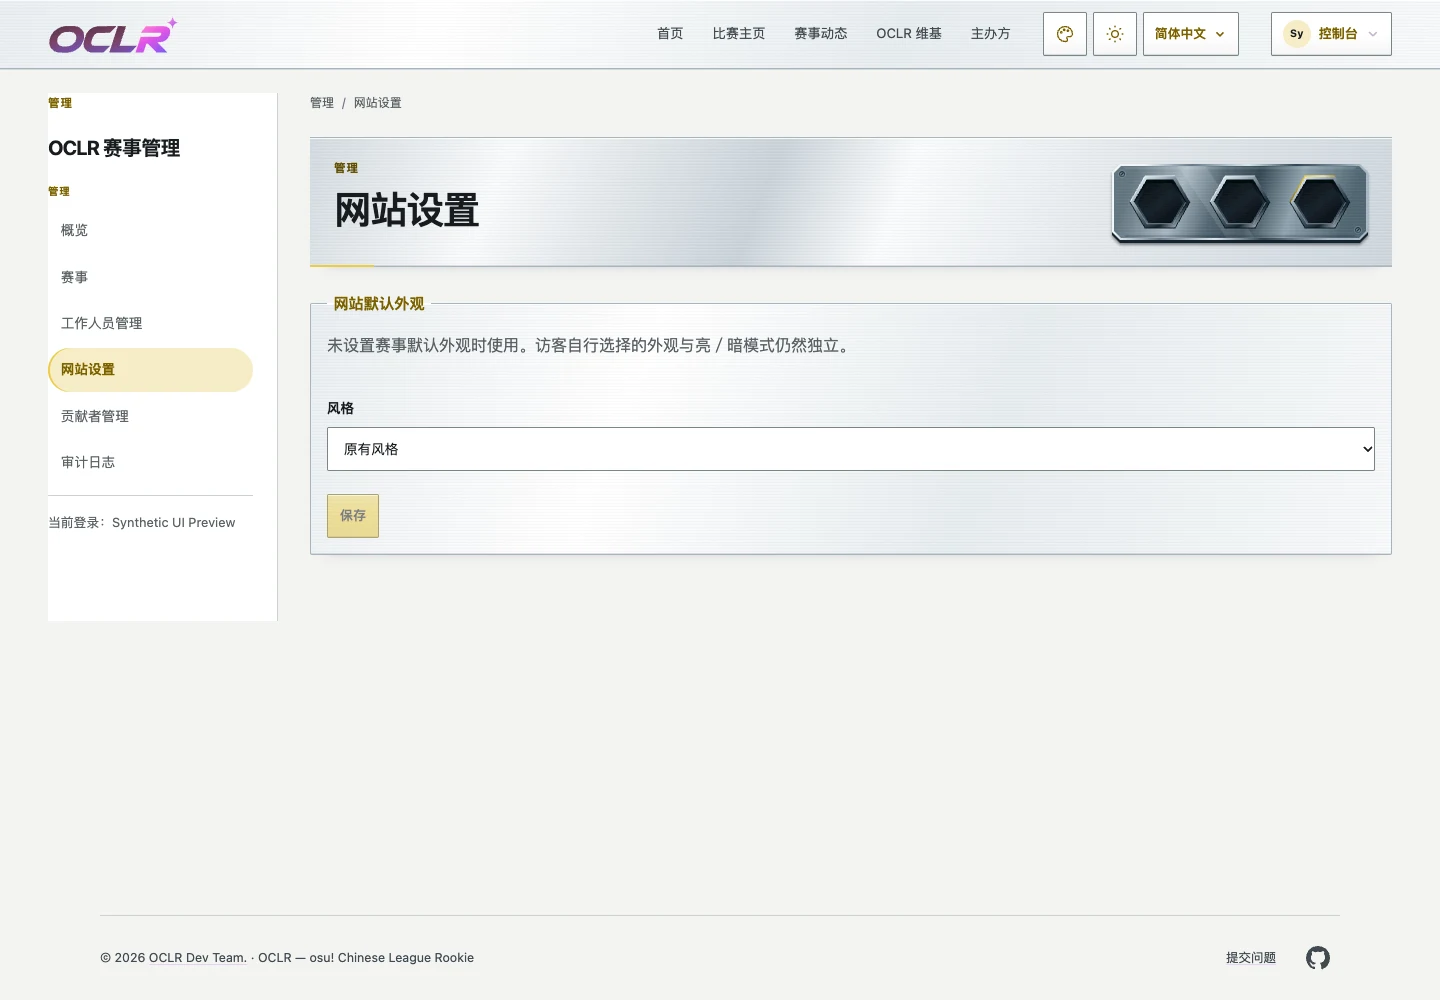
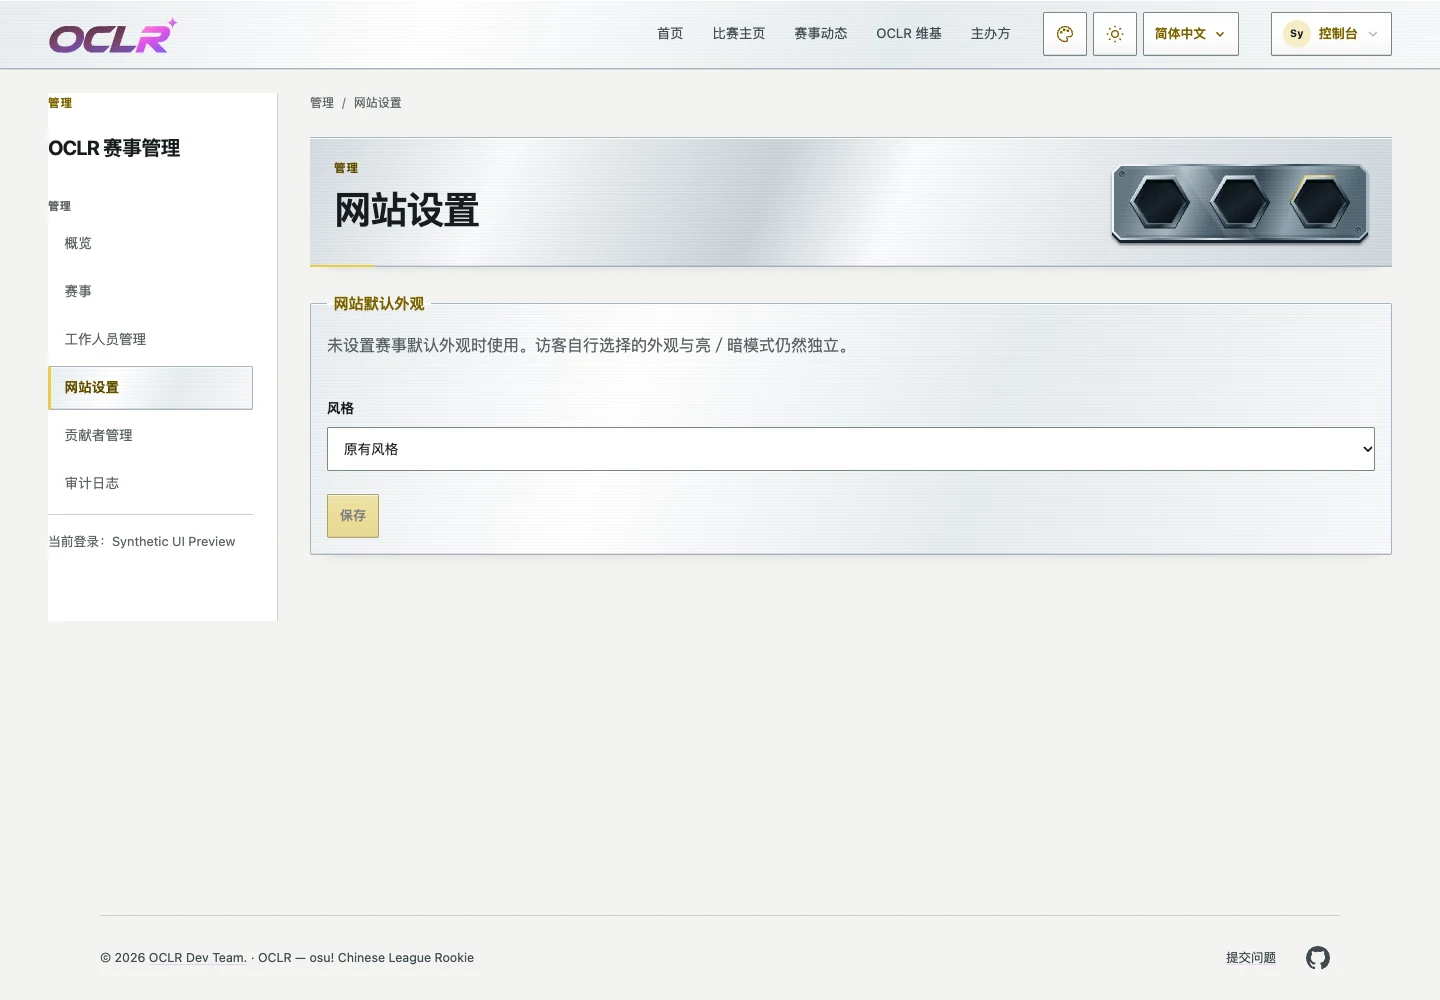
test(theme): verify S7 sidebar navigation and record visual evidence

Changed region(s): [[0.0312, 0.186, 0.1875, 0.558]]

diff --git a/docs/design/season-themes/s7.html b/docs/design/season-themes/s7.html
@@ -78,7 +78,7 @@
       <h1>S7 · 最新應用 UI 設計對照</h1>
       <p>
         圖片來自 main <code>d34378e</code> 上的 S7 實作
-        <code>5ebd162</code> 實際頁面，使用 S7 Graphite Arena 的 SSR
+        <code>5c9f083</code> 實際頁面，使用 S7 Graphite Arena 的 SSR
         外觀偏好與打包樣式。拉絲銀色／深鋼金屬、具倒角與內凹槽的六角金屬嵌件，配上蜂巢線稿及競技黃細線；保留完整原主視覺。
       </p>
       <p>
@@ -97,6 +97,11 @@
       圖池修復局部：<a href="s7/map-controls-dark.png">檢視控制</a> ·
       <a href="s7/map-nm2-dark.png">NM2</a> ·
       <a href="s7/map-ace1-dark.png">ACE1</a>
+    </p>
+    <p style="margin: 16px 24px">
+      管理側欄：<a href="s7/admin-sidebar-light.png">Light</a> ·
+      <a href="s7/admin-sidebar-dark.png">Dark</a> ·
+      <a href="s7/admin-sidebar-mobile-dark.png">手機展開</a>（實際頁面 2× 截圖）
     </p>
     <form aria-label="預覽控制">
       <label

diff --git a/tests/e2e/graphite-appearance.spec.ts b/tests/e2e/graphite-appearance.spec.ts
@@ -120,6 +120,8 @@ test.describe("S7 Graphite Arena appearance", () => {
                   .analyze()
               ).violations,
             ).toEqual([]);
+            // Switch from the touch-opened menu to keyboard focus modality.
+            await page.keyboard.press("Tab");
             await links.last().focus();
             await expect(links.last()).toHaveCSS("outline-style", /solid|auto/);
             await page.keyboard.press("Enter");

diff --git a/docs/design/season-themes/s7/DESIGN.md b/docs/design/season-themes/s7/DESIGN.md
@@ -1,6 +1,6 @@
 # S7 — Graphite Arena / 石墨競技場
 
-追蹤：[#198](https://github.com/OCLR-dev/OCLR-website/issues/198)。本輪依主辦方要求，以 main `d34378e` 的實際 UI 精修並正式接入 `graphite-arena`，等待主辦方視覺審閱；未合併或部署。
+追蹤：[#198](https://github.com/OCLR-dev/OCLR-website/issues/198)。S7 正式主題已由 PR #384 合併至 main `d34378e`。本輪以該實際 UI 修復圖池與管理側欄，功能分支待審閱，尚未合併或部署修復。
 
 ## 設計方向
 
@@ -13,7 +13,7 @@
 - 保留 [1920×1080 原圖](../../../../public/archive/s7/key-visual.jpg)，完整 contain，不裁切、重繪、調色或改字。
 - 桌面標題右側採自繪具厚度的六角金屬嵌件，下方 64px 黃色短線呼應金屬原圖；1100px 以下移除右側裝飾，不壓縮長標題。
 - 面板／控制項採 2px 圓角。統計是一整塊金屬板，寬幅反射跨越五列，不為每個數值加框；比分採系統等寬數字。
-- 導覽選取透明底色、單一細底線；賽事頁籤用黃色底線，側欄用細側線。焦點、狀態與 mod 色保持獨立語意。
+- 主導覽選取透明底色、單一細底線；賽事頁籤用黃色底線，工作側欄採緞面金屬列與金色側線。焦點、狀態與 mod 色保持獨立語意。
 - 明版拉絲銀鋁、暗版深色鋼材。反射帶、3px 細刷紋、上緣亮邊與下緣暗邊由靜態 CSS 背景製作；頁首與 Admin 大板採較平緩緞面，按鈕保留小面積頂光。主按鈕亮黃搭深色文字，明版連結採深金色。無遠端字型或新依賴。
 
 ## 可審閱實際 UI
@@ -75,10 +75,10 @@ DATABASE_URL="$TEST_DATABASE_URL" ADMIN_OSU_IDS=60001 APP_URL=http://127.0.0.1:3
 在另一個 terminal 對同一 DB，設定 `S7_UI_BASELINE` 為本輪 runtime 提交，執行：
 
 ```sh
-S7_UI_BASELINE=5ebd16294a21f581d37d9dd70236b1cd11255a18 node --import tsx docs/design/season-themes/s7/capture.mjs
+S7_UI_BASELINE=5c9f0834548ebe4c0ce91ca5bc24efa94138fb32 node --import tsx docs/design/season-themes/s7/capture.mjs
 ```
 
-截圖程式核對 runtime／messages／public 與指定 SHA 完全一致，從實際 SSR 外觀偏好與已打包 CSS 產圖；不注入候選 CSS、不更換元件。檢查三個路由 × 四個寬度（320／390／768／1440）× 明暗、Axe AA、DOM／文字不變、五列統計、完整原圖、手機選單／焦點與 sticky stack，另檢查四組 forced colours。合成 session 只在記憶體，不進截圖或原始碼。
+截圖程式核對 runtime／messages／public 與指定 SHA 完全一致，從實際 SSR 外觀偏好與已打包 CSS 產圖；不注入候選 CSS、不更換元件。檢查三個路由 × 四個寬度（320／390／768／1440）× 明暗、Axe AA、DOM／文字不變、五列統計、完整原圖、手機選單／焦點與 sticky stack，另檢查四組 forced colours。另以繁中、937px／390px 擷取管理側欄明暗共四張原生2×局部並進行四次側欄 Axe AA。合成 session 只在記憶體，不進截圖或原始碼。
 
 ## 驗證紀錄
 
@@ -152,3 +152,18 @@ S7_UI_BASELINE=5ebd16294a21f581d37d9dd70236b1cd11255a18 node --import tsx docs/d
 [檢視控制 Light](map-controls-light.png)／[Dark](map-controls-dark.png) · [NM2 Light](map-nm2-light.png)／[Dark](map-nm2-dark.png) · [ACE1 Light](map-ace1-light.png)／[Dark](map-ace1-dark.png)。來自699px實際頁面、原生2×局部，沒有後製。隔離預覽阻擋外部封面服務，因此局部圖使用既有缺圖狀態；修復未更改封面來源。
 
 本輪 check／production build／tsc／lint 通過。更新24組實際UI／24次Axe AA及4組forced colours，零錯誤。新增回歸以每個案例獨立頁面避免 WebKit 快速切換尺寸／cookie 時中斷前頁預取，保留全部pageerror與版面／操作斷言。最終 Chrome 桌面／手機2項與 Safari桌面／手機2項通過，涵蓋三語×明暗、320／390／655／699／1440px，完整文字、44px點選區、卡片／緊湊表格、Space開啟詳情、Escape焦點還原及高對比選取。沒有忽略或移除pageerror斷言。CI於交付另記；未重跑未受影響的完整unit/integration、i18n或依賴稽核。
+
+
+### 管理側欄修復（2026-10-27）
+
+依主辦方標註 `/admin/tournaments/s7` 第一組導覽，修正共用 private workspace 的999px圓角遺留。Runtime：`5c9f0834548ebe4c0ce91ca5bc24efa94138fb32`，保留此前圖池修復。
+
+- S7 工作側欄連結統一2px圓角、至少44px高度、內距與換行；目前頁採緞面鋼材／銀鋁薄板、3px金色左緣及輕微倒角，移除棕色膠囊底色。
+- 管理群組以細分隔線和穩定間距區隔，群組標題使用次要文字。未更改路由、文字、ARIA、角色或資料；手機仍沿用原本展開／切頁收起行為。
+- 高對比模式移除金屬材質與陰影，使用系統 Highlight 外框標示目前頁。
+
+[937px Light](admin-sidebar-light.png)／[Dark](admin-sidebar-dark.png) · [390px 展開 Light](admin-sidebar-mobile-light.png)／[Dark](admin-sidebar-mobile-dark.png)。使用隔離測試 DB 的合成 Admin，直接截取實際導覽群組，原生2×，無後製。
+
+本輪 `npm run check`、production build、最終 tsc／ESLint、文件連結與 diff 檢查通過。新增 Chrome 桌面／手機2項與 Safari桌面／手機2項全部通過。原有24組UI／24次Axe AA與4組forced colours重新通過，另四組側欄Axe AA零違規。新增桌面／手機回歸涵蓋三語×明暗、320／390／760／768／937／1440px、44px點選區、無水平溢出、唯一目前頁、鍵盤焦點／Enter導覽、手機切頁收起與高對比。手機焦點驗證先由觸控切換到鍵盤模式，不移除焦點斷言。
+
+前一輪 `a901d8a` 的 core CI（40450166113）已完成但失敗：verify／build／header與remote檢查成功；五個一般E2E shard的匿名無cookie斷言遇到 main #383 新增的 `oclr-system-theme=light`。此處據實保留該未解決的跨功能驗證限制，不將舊版pending狀態或本機S7回歸稱作完整CI通過。本輪未更改該跨功能cookie邏輯／斷言；新head的CI另記於#198。未重跑未受影響的完整unit/integration、i18n或依賴稽核，沒有合併或部署。
